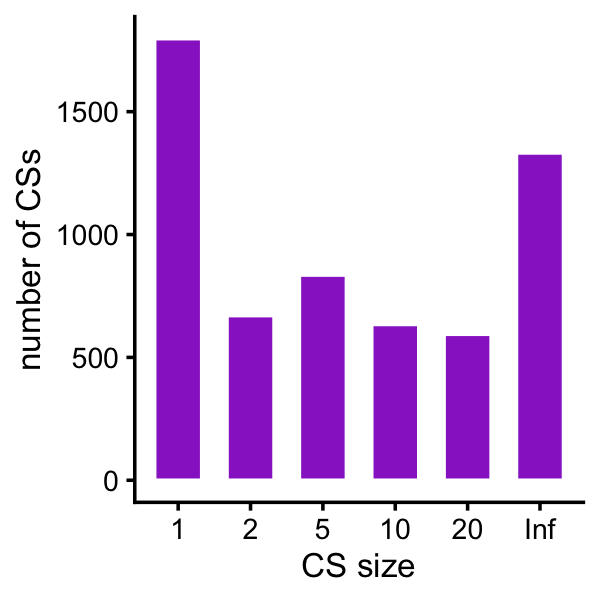
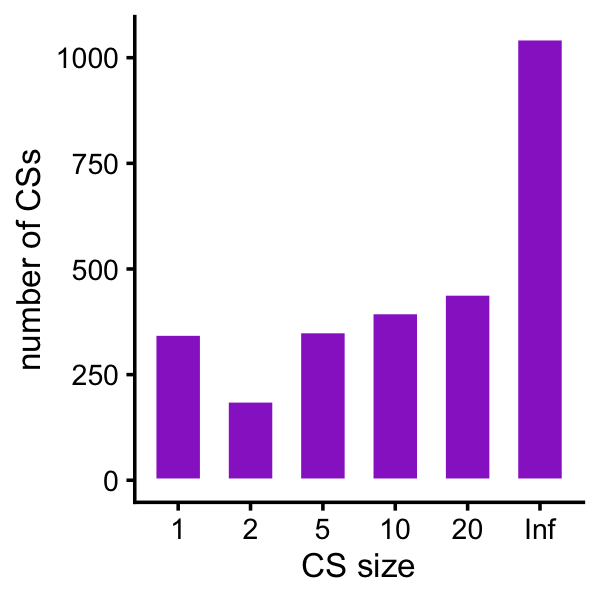
Added MAF filters to rosmap_rnaseq_protein analysis.

diff --git a/docs/rosmap_rnaseq_protein.html b/docs/rosmap_rnaseq_protein.html
@@ -302,7 +302,7 @@ class="glyphicon glyphicon-ok text-success" aria-hidden="true"></span>
 <div class="tab-content">
 <div id="summary" class="tab-pane fade in active">
 <p>
-<strong>Last updated:</strong> 2025-05-01
+<strong>Last updated:</strong> 2025-05-06
 </p>
 <p>
 <strong>Checks:</strong> <span
@@ -434,15 +434,15 @@ project makes it easier to run your code on other machines.</p>
 <div class="panel panel-default">
 <div class="panel-heading">
 <p class="panel-title">
-<a data-toggle="collapse" data-parent="#workflowr-checks" href="#strongRepositoryversionstrongahrefhttpsgithubcomstephenslabfsusieexperimentstree94a37347550bcc97d8bd79721f9c7c3fc93b0ce8targetblank94a3734a">
+<a data-toggle="collapse" data-parent="#workflowr-checks" href="#strongRepositoryversionstrongahrefhttpsgithubcomstephenslabfsusieexperimentstreea043de0ba4559a418d7d09717b38c9f66241502dtargetblanka043de0a">
 <span class="glyphicon glyphicon-ok text-success"
 aria-hidden="true"></span> <strong>Repository version:</strong>
-<a href="https://github.com/stephenslab/fsusie-experiments/tree/94a37347550bcc97d8bd79721f9c7c3fc93b0ce8" target="_blank">94a3734</a>
+<a href="https://github.com/stephenslab/fsusie-experiments/tree/a043de0ba4559a418d7d09717b38c9f66241502d" target="_blank">a043de0</a>
 </a>
 </p>
 </div>
 <div
[2 lines of base64/hex data omitted]
 class="panel-collapse collapse">
 <div class="panel-body">
 <p>
@@ -452,7 +452,7 @@ reproducibility.
 </p>
 <p>
 The results in this page were generated with repository version
-<a href="https://github.com/stephenslab/fsusie-experiments/tree/94a37347550bcc97d8bd79721f9c7c3fc93b0ce8" target="_blank">94a3734</a>.
+<a href="https://github.com/stephenslab/fsusie-experiments/tree/a043de0ba4559a418d7d09717b38c9f66241502d" target="_blank">a043de0</a>.
 See the <em>Past versions</em> tab to see a history of the changes made
 to the R Markdown and HTML files.
 </p>
@@ -470,12 +470,13 @@ Untracked files:
     Untracked:  analysis/cs_sizes_protein.pdf
     Untracked:  analysis/cs_sizes_rnaseq.pdf
     Untracked:  analysis/rosmap_overview_cache/
-    Untracked:  data/12864_2013_7006_MOESM2_ESM.csv.gz
-    Untracked:  data/IlluminaHumanMethylation450K.rda
+    Untracked:  analysis/temp.R
     Untracked:  data/ROSMAP_NIA_WGS.leftnorm.bcftools_qc.plink_qc.afreq.gz
+    Untracked:  data/afreq.RData
     Untracked:  data/analysis_result/Fungen_xQTL.ENSG00000163808.cis_results_db.export.rds
     Untracked:  data/analysis_result/ROSMAP_haQTL.chr3_43915257_48413435.fsusie_mixture_normal_top_pc_weights.rds
     Untracked:  data/analysis_result/ROSMAP_mQTL.chr3_43915257_48413435.fsusie_mixture_normal_top_pc_weights.rds
+    Untracked:  outputs/CASS4_all_effects.RData
     Untracked:  outputs/CASS4_obj.RData
     Untracked:  outputs/CD2AP_all_effects.RData
     Untracked:  outputs/CD2AP_obj.RData
@@ -493,9 +494,6 @@ Untracked files:
     Untracked:  outputs/ROSMAP_mQTL_cs_snp_toppc1_annotation.tsv.gz
     Untracked:  outputs/ROSMAP_mQTL_qtl_snp_qval0.05.tsv.gz
     Untracked:  outputs/ROSMAP_mQTL_qtl_snp_qval0.05_annotation.tsv.gz
-
-Unstaged changes:
-    Modified:   analysis/rosmap_overview.Rmd
 
 </code></pre>
 <p>
@@ -541,6 +539,40 @@ Message
 </tr>
 </thead>
 <tbody>
+<tr>
+<td>
+Rmd
+</td>
+<td>
+<a href="https://github.com/stephenslab/fsusie-experiments/blob/a043de0ba4559a418d7d09717b38c9f66241502d/analysis/rosmap_rnaseq_protein.Rmd" target="_blank">a043de0</a>
+</td>
+<td>
+Peter Carbonetto
+</td>
+<td>
+2025-05-06
+</td>
+<td>
+wflow_publish("rosmap_rnaseq_protein.Rmd", verbose = TRUE)
+</td>
+</tr>
+<tr>
+<td>
+html
+</td>
+<td>
+<a href="https://rawcdn.githack.com/stephenslab/fsusie-experiments/9da7f17297a74927569ab3deaf9a02448bbc1bd8/docs/rosmap_rnaseq_protein.html" target="_blank">9da7f17</a>
+</td>
+<td>
+Peter Carbonetto
+</td>
+<td>
+2025-05-01
+</td>
+<td>
+A few small improvements to the histograms in the
+</td>
+</tr>
 <tr>
 <td>
 Rmd
@@ -690,7 +722,10 @@ rnaseq &lt;-
             ref = factor(ref),
             alt = factor(alt),
             cs_coverage_0.95 = factor(cs_coverage_0.95),
-            context = factor(context))</code></pre>
+            context = factor(context))
+rnaseq &lt;- subset(rnaseq,context == &quot;DLPFC_DeJager_eQTL&quot;)</code></pre>
+<p>Remove SNPs with MAF &lt; 5%:</p>
+<pre class="r"><code>rnaseq &lt;- subset(rnaseq,maf &gt;= 0.05)</code></pre>
 <p>Plot a histogram of the CS sizes for the RNA-seq fine-mapping:</p>
 <pre class="r"><code>bins &lt;- c(0,1,2,5,10,20,Inf)
 gene_cs &lt;- with(rnaseq,paste(gene,cs_coverage_0.95,sep = &quot;_&quot;))
@@ -701,7 +736,6 @@ levels(cs_size) &lt;- bins[-1]
 p &lt;- ggplot(data.frame(cs_size = cs_size),aes(x = cs_size)) +
   geom_histogram(stat = &quot;count&quot;,color = &quot;white&quot;,fill = &quot;dodgerblue&quot;,
                  width = 0.65) +
-  scale_y_continuous(breaks = seq(0,20000,2500)) +
   labs(x = &quot;CS size&quot;,y = &quot;number of CSs&quot;) +
   theme_cowplot(font_size = 10)
 print(p)</code></pre>
@@ -728,6 +762,17 @@ Date
 </tr>
 </thead>
 <tbody>
+<tr>
+<td>
+<a href="https://github.com/stephenslab/fsusie-experiments/blob/9da7f17297a74927569ab3deaf9a02448bbc1bd8/docs/figure/rosmap_rnaseq_protein.Rmd/cs-sizes-rnaseq-1.png" target="_blank">9da7f17</a>
+</td>
+<td>
+Peter Carbonetto
+</td>
+<td>
+2025-05-01
+</td>
+</tr>
 <tr>
 <td>
 <a href="https://github.com/stephenslab/fsusie-experiments/blob/ad758942c5a73c0de239881235df3b4600db40b6/docs/figure/rosmap_rnaseq_protein.Rmd/cs-sizes-rnaseq-1.png" target="_blank">ad75894</a>
@@ -757,8 +802,8 @@ Peter Carbonetto
 <p>Here are the exact numbers:</p>
 <pre class="r"><code>table(cs_size)
 # cs_size
-#     1     2     5    10    20   Inf 
-#  2857  1659  2925  2917  3817 14278</code></pre>
+#    1    2    5   10   20  Inf 
+# 1559  859 1582 1641 2010 4221</code></pre>
 <p>Load the protein fine-mapping results:</p>
 <pre class="r"><code>protein &lt;- fread(&quot;../outputs/ROSMAP_DLPFC_pQTL.cs_only.tsv.gz&quot;,
                 sep = &quot;\t&quot;,header = TRUE,stringsAsFactors = FALSE)
@@ -774,6 +819,10 @@ protein &lt;-
             cs_coverage_0.95 = factor(cs_coverage_0.95),
             context = factor(context))
 protein &lt;- subset(protein,context == &quot;DLPFC_Bennett_pQTL&quot;)</code></pre>
+<p>Remove SNPs with MAF &lt; 7.5%:</p>
+<pre class="r"><code>protein &lt;- subset(protein,maf &gt;= 0.075)</code></pre>
+<p>(Note that 7.5% to achieve a similar minor allele count threshold
+with the RNA-seq, methylation and H3K27ac data.)</p>
 <p>Plot a histogram of the CS sizes for the proteomics fine-mapping:</p>
 <pre class="r"><code>gene_cs &lt;- with(protein,paste(gene,cs_coverage_0.95,sep = &quot;_&quot;))
 gene_cs &lt;- factor(gene_cs)
@@ -828,7 +877,7 @@ Peter Carbonetto
 <pre class="r"><code>table(cs_size)
 # cs_size
 #    1    2    5   10   20  Inf 
-# 1797  670  835  634  594 1332</code></pre>
+#  346  188  352  397  441 1045</code></pre>
 <br>
 <p>
 <button type="button" class="btn btn-default btn-workflowr btn-workflowr-sessioninfo" data-toggle="collapse" data-target="#workflowr-sessioninfo" style="display: block;">
@@ -872,7 +921,7 @@ Session information
 # [41] bslib_0.6.1       later_1.3.2       gtable_0.3.4      glue_1.8.0       
 # [45] Rcpp_1.0.12       systemfonts_1.0.6 xfun_0.42         tibble_3.2.1     
 # [49] tidyselect_1.2.1  highr_0.10        knitr_1.45        farver_2.1.1     
-# [53] htmltools_0.5.8.1 labeling_0.4.3    rmarkdown_2.26    compiler_4.3.3</code></pre>
+# [53] htmltools_0.5.8.1 rmarkdown_2.26    labeling_0.4.3    compiler_4.3.3</code></pre>
 </div>
 
 
